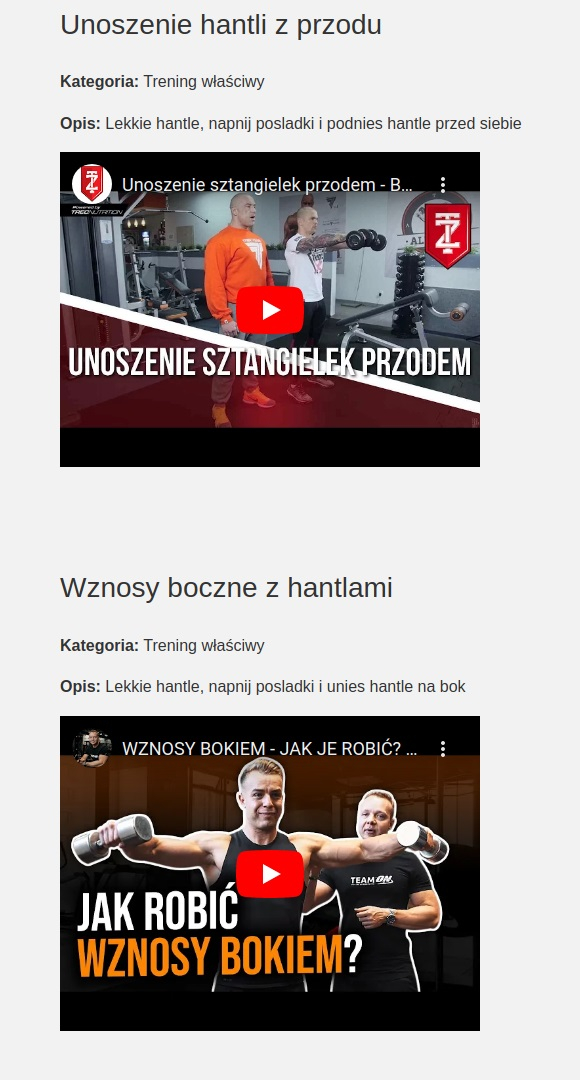
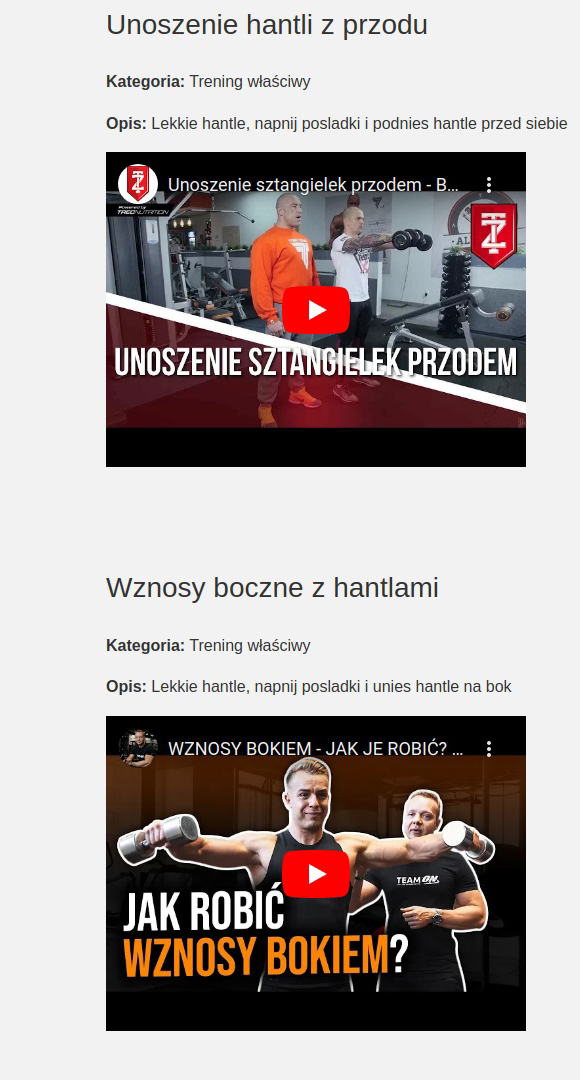
modify index.html

diff --git a/OcrExerciseGenerator-web/src/main/resources/templates/index.html b/OcrExerciseGenerator-web/src/main/resources/templates/index.html
@@ -19,49 +19,60 @@
         }
 
         .container {
-            display: flex;
-            flex-direction: column;
             align-items: center;
             text-align: center;
         }
 
+        .description {
+            background-color: #f2f2f2;
+            align-items: center;
+            text-align: center;
+            justify-content: center;
+        }
+
         .row {
-            display: flex;
+            flex-direction: row;
             justify-content: center;
             align-items: center;
-            margin-bottom: 20px;
+            margin-bottom: 30px;
         }
 
         .row .image-left {
+            flex-direction: column;
             margin-left: 10px;
+            float: left;
             width: 50%;
-        }
-
-        .row .image-right {
-            margin-right: 10px;
-            width: 50%;
-        }
-        .row .text-right {
-            text-align: right;
-        }
-        .row .text-left {
-            text-align: left;
-        }
-
-        .row .image,
-        .row .text {
-            width: 100%;
-        }
-
-        .row .image-left {
             order: 1;
             margin-right: 10px;
         }
 
+        .row .text-left {
+            flex-direction: column;
+            float: right;
+            text-align: left;
+        }
+
         .row .image-right {
+            flex-direction: column;
+            margin-right: 10px;
+            float: right;
+            width: 50%;
             order: 2;
             margin-left: 10px;
         }
+        .row .text-right {
+            flex-direction: column;
+            float: left;
+            text-align: right;
+        }
+        p {
+            display: block;
+            margin-block-start: 1em;
+            margin-block-end: 1em;
+            margin-inline-start: 0px;
+            margin-inline-end: 0px;
+        }
+
     </style>
 </head>
 <body>
@@ -79,19 +90,27 @@
 </nav>
 <main>
     <div class="container">
+        <div class="description" style="padding: 10px; width: 1000px; font-size: 30px">
+            <p>
+                Czy jesteś gotowy, aby stawić czoła najtrudniejszym wyzwaniom i przekroczyć swoje fizyczne granice?
+                Nasz generator ćwiczeń OCR został zaprojektowany, aby przygotować Cię do ekscytującego świata wyścigów
+                z przeszkodami. Niezależnie od tego, czy jesteś doświadczonym entuzjastą OCR, czy początkującym, który
+                chce wziąć udział w swoim pierwszym wyścigu, nasza aplikacja jest najlepszym towarzyszem treningu.
+            </p>
+        </div>
 
         <div class="row">
-            <div class="image-left">
-                <img src="../static/images/exercises.jpg" alt="Image 1">
-            </div>
-            <div class="text-right">
+            <article class="image-left">
+                <img src="/images/exercises.jpg" alt="Image 1">
+            </article>
+            <aside class="text-right">
                 <p>Text for Image 1</p>
-            </div>
+            </aside>
         </div>
 
         <div class="row">
             <div class="image-right">
-                <img src="../static/images/addexercise.jpg" alt="Image 2">
+                <img src="/images/addexercise.jpg" alt="Image 2">
             </div>
             <div class="text-left">
                 <p>Text for Image 2</p>
@@ -100,19 +119,19 @@
 
         <div class="row">
             <div class="image-left">
-                <img src="../static/images/changedetails.jpg" alt="Image 3">
+                <img src="/images/changedetails.jpg" alt="Image 3">
             </div>
             <div class="text-right">
                 <p>Text for Image 3</p>
             </div>
         </div>
 
-        <div class="row">
-            <div class="image">
-                <img src="../static/images/profil.jpg" alt="Image 5">
+        <div class="container">
+            <div class="container">
+                <img src="/images/profil.jpg" alt="Image 4">
             </div>
         </div>
-        <div class="row">
+        <div class="container">
             <div class="text">
                 <p>Text for Image 4</p>
             </div>
